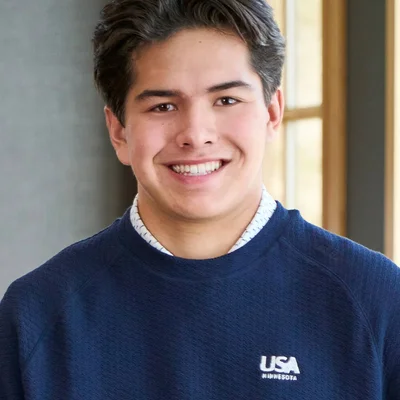
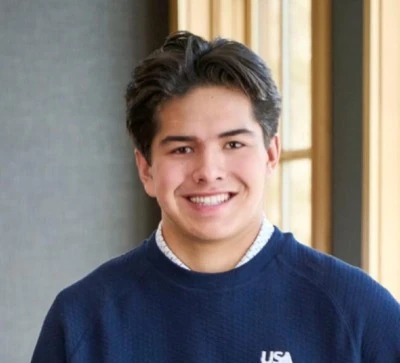
feat(photos): add Chase Day 2 Preview action shot to 2026 album + convert player JPGs to WebP
- New: public/images/2026/chase-edinburgh-day2-action.webp (Chase action shot from The Preview Day 2, 960x1280, 160 KB)
- Photos.jsx: append to 2026-2 (action) album with caption matching existing Day 2 entry
- Pre-existing tech debt cleanup: chase-larson.jpg + michael-vernon.jpg (32K each) converted to .webp; golfData.json refs updated
  These had been blocking pre-deploy-check.sh format gate. Fixed at root, not bypassed (Operating Principle #2)

diff --git a/src/pages/Photos.jsx b/src/pages/Photos.jsx
@@ -36,6 +36,7 @@ function Photos() {
         { src: '/images/2026/sander-ohe-preview-medalist.webp', caption: 'Sander Ohe — Medalist (137, -7), The Preview at Edinburgh USA, Apr 24-25.' },
         { src: '/images/2026/peter-edinburgh-day1-putt.webp', caption: 'Peter Bennett — Round 1, The Preview at Edinburgh USA, Apr 24.' },
         { src: '/images/2026/chase-edinburgh-day2.webp', caption: 'Chase Larson — Round 2, The Preview at Edinburgh USA, Apr 25.' },
+        { src: '/images/2026/chase-edinburgh-day2-action.webp', caption: 'Chase Larson — Round 2, The Preview at Edinburgh USA, Apr 25.' },
         { src: '/images/2026/chase-colby-edinburgh-fairway.webp', caption: 'Chase Larson and David Colby walking the fairway — The Preview at Edinburgh USA, Apr 24-25.' },
       ],
     },
